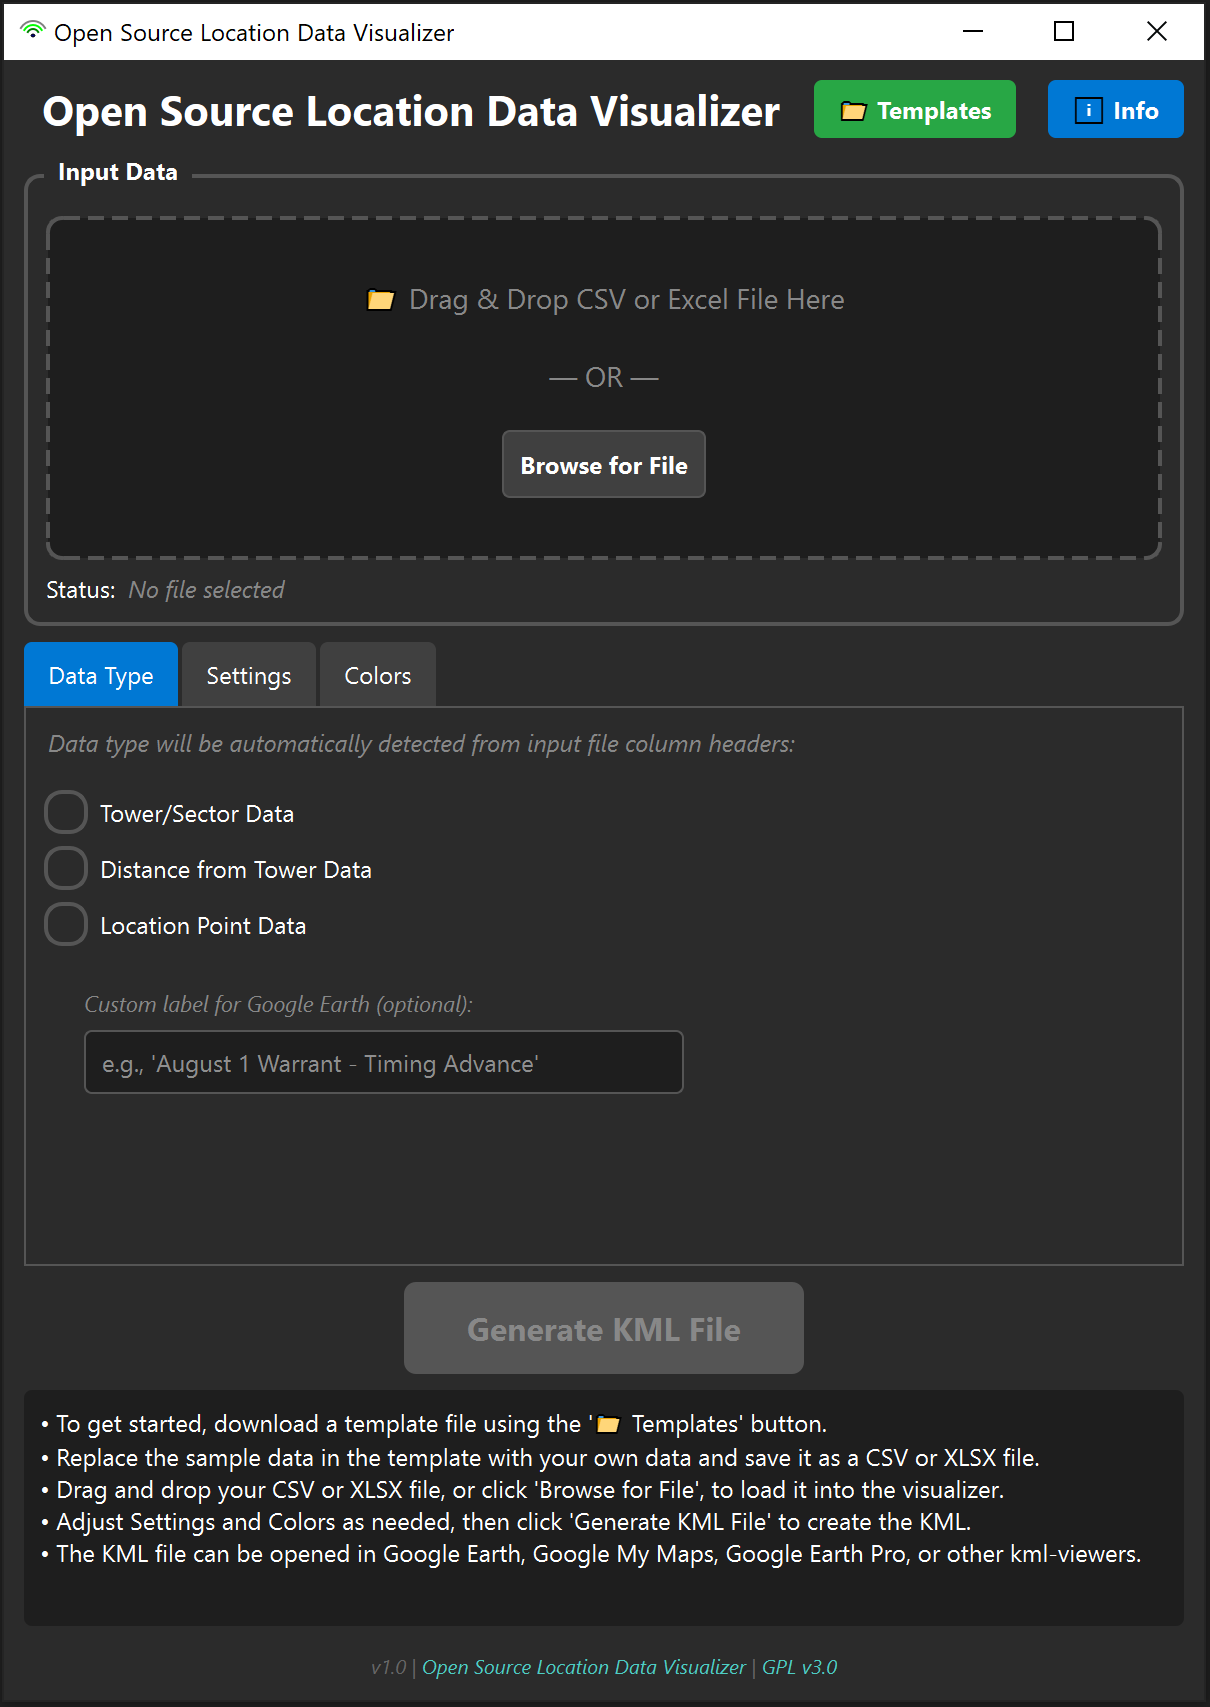
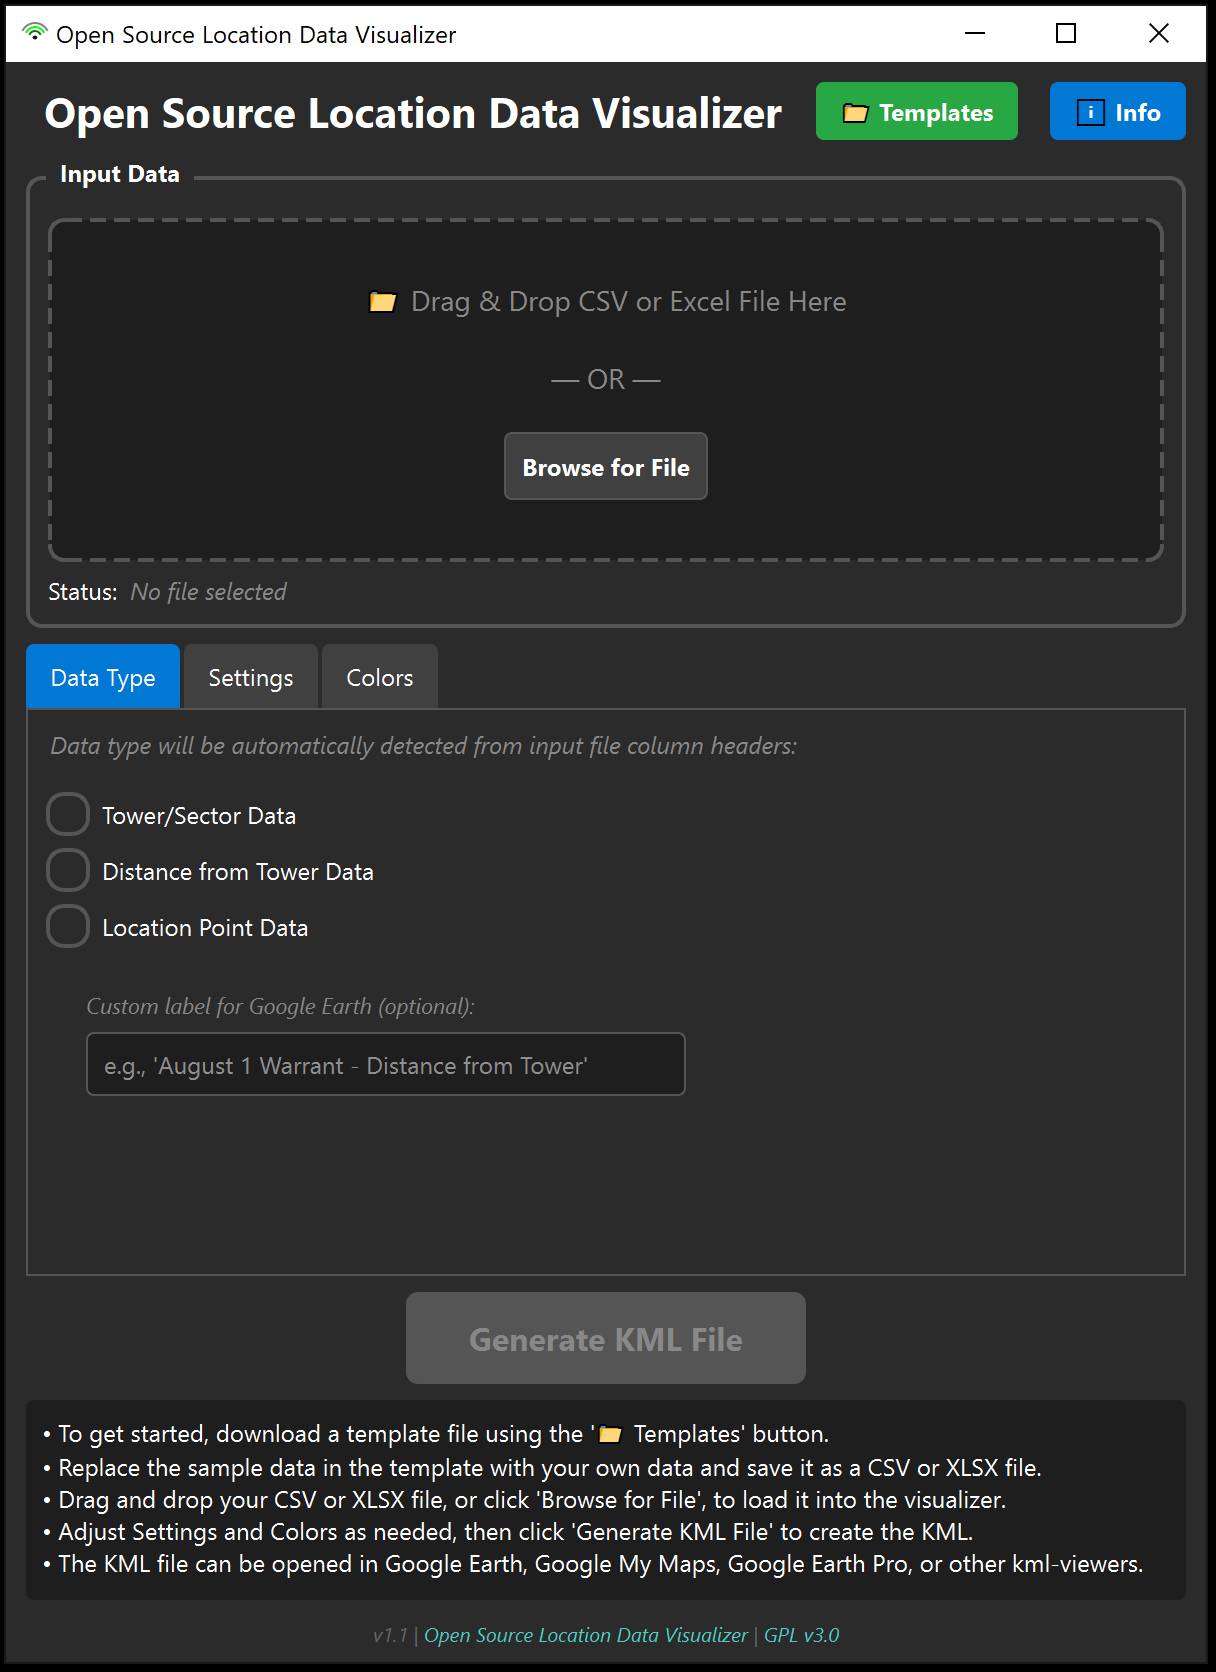
Refactor KML generation to remove gx namespace and update band thickness default to 0 meters

diff --git a/kml_generator.py b/kml_generator.py
@@ -96,12 +96,9 @@ class KMLGenerator(QThread):
         
         kml_header = textwrap.dedent(f'''\
             <?xml version="1.0" encoding="UTF-8"?>
-            <kml xmlns="http://www.opengis.net/kml/2.2" xmlns:gx="http://www.google.com/kml/ext/2.2">
+            <kml xmlns="http://www.opengis.net/kml/2.2">
             <Document>
                 <name>{doc_name}</name>
-                <gx:AnimatedUpdate>
-                    <gx:duration>0.0</gx:duration>
-                </gx:AnimatedUpdate>
         ''')
         
         kml_footer = textwrap.dedent('''\
@@ -152,12 +149,9 @@ class KMLGenerator(QThread):
         
         kml_header = textwrap.dedent(f'''\
             <?xml version="1.0" encoding="UTF-8"?>
-            <kml xmlns="http://www.opengis.net/kml/2.2" xmlns:gx="http://www.google.com/kml/ext/2.2">
+            <kml xmlns="http://www.opengis.net/kml/2.2">
             <Document>
                 <name>{doc_name}</name>
-                <gx:AnimatedUpdate>
-                    <gx:duration>0.0</gx:duration>
-                </gx:AnimatedUpdate>
         ''')
         
         kml_footer = textwrap.dedent('''\
@@ -229,12 +223,9 @@ class KMLGenerator(QThread):
         
         kml_header = textwrap.dedent(f'''\
             <?xml version="1.0" encoding="UTF-8"?>
-            <kml xmlns="http://www.opengis.net/kml/2.2" xmlns:gx="http://www.google.com/kml/ext/2.2">
+            <kml xmlns="http://www.opengis.net/kml/2.2">
             <Document>
                 <name>{doc_name}</name>
-                <gx:AnimatedUpdate>
-                    <gx:duration>0.0</gx:duration>
-                </gx:AnimatedUpdate>
         ''')
         
         kml_footer = textwrap.dedent('''\
@@ -571,11 +562,11 @@ class KMLGenerator(QThread):
         end_timestamp = self.calculate_end_timestamp(kml_timestamp, duration_minutes)
         
         if end_timestamp:
-            # Use gx:TimeSpan with both begin and end for duration-based visibility
-            return f"{indent}<gx:TimeSpan><begin>{kml_timestamp}</begin><end>{end_timestamp}</end></gx:TimeSpan>\n"
+            # Use TimeSpan with both begin and end for duration-based visibility
+            return f"{indent}<TimeSpan><begin>{kml_timestamp}</begin><end>{end_timestamp}</end></TimeSpan>\n"
         else:
             # Fallback to begin-only if end calculation fails
-            return f"{indent}<gx:TimeSpan><begin>{kml_timestamp}</begin></gx:TimeSpan>\n"
+            return f"{indent}<TimeSpan><begin>{kml_timestamp}</begin></TimeSpan>\n"
     
     def create_sector_placemark(self, lat, lon, azimuth, timestamp):
         """Create a sector wedge placemark with extended directional lines (SWGDE style)"""
@@ -798,7 +789,7 @@ class KMLGenerator(QThread):
         leg_length = self.settings.get('leg_length', 3.0)
         shaded_area_length = self.settings.get('shaded_area_length', 1.0)
         band_thickness_before = self.settings.get('band_thickness_before', 0.0)
-        band_thickness = self.settings.get('band_thickness', 78.0)
+        band_thickness = self.settings.get('band_thickness', 0.0)
         band_units = self.settings.get('band_thickness_units', 'Meters')
         band_thickness_before_miles = self.convert_ta_distance_to_miles(band_thickness_before, band_units)
         band_thickness_miles = self.convert_ta_distance_to_miles(band_thickness, band_units)
@@ -946,7 +937,7 @@ class KMLGenerator(QThread):
     def create_sector_distance_band(self, lat, lon, timestamp, distance_miles, start_angle, end_angle):
         """Create a band polygon constrained to a sector wedge (for Case 1: azimuth + distance)"""
         band_thickness_before = self.settings.get('band_thickness_before', 0.0)
-        band_thickness = self.settings.get('band_thickness', 78.0)
+        band_thickness = self.settings.get('band_thickness', 0.0)
         band_units = self.settings.get('band_thickness_units', 'Meters')
         band_color_raw = self.settings.get('band_color', 'ff0099ff')
         # Apply same 7d transparency as wedge shading (strip existing alpha, add 7d)
@@ -1046,8 +1037,10 @@ class KMLGenerator(QThread):
     
     def create_distance_band(self, lat, lon, timestamp, distance_miles):
         """Create a band polygon at the distance from tower (inner arc + outer arc + edges)"""
+        kml_timestamp, display_label = self.parse_timestamp_to_kml(timestamp)
+        
         band_thickness_before = self.settings.get('band_thickness_before', 0.0)
-        band_thickness = self.settings.get('band_thickness', 78.0)
+        band_thickness = self.settings.get('band_thickness', 0.0)
         band_units = self.settings.get('band_thickness_units', 'Meters')
         band_color_raw = self.settings.get('band_color', 'ff0099ff')
         # Apply same 7d transparency as wedge shading (strip existing alpha, add 7d)
@@ -1081,28 +1074,31 @@ class KMLGenerator(QThread):
         band_coords = inner_coords + list(reversed(outer_coords)) + [inner_coords[0]]
         coordinates_string = ' '.join(band_coords)
         
-        # Determine folder timestamp label
-        if isinstance(timestamp, tuple):
-            if timestamp[0]:  # If valid timestamp
-                timestamp_label = timestamp[1]
-            else:
-                timestamp_label = "Invalid Timestamp"
-        else:
-            timestamp_label = str(timestamp)
-        
         # Create descriptive label showing the band range
         if band_thickness_before_miles > 0:
             band_label = f"Band {inner_distance_miles:.2f}mi to {outer_distance_miles:.2f}mi"
         else:
             band_label = f"Band {distance_miles:.2f}mi ± {band_thickness_miles:.2f}mi"
         
-        placemark = textwrap.dedent(f'''
+        placemark = textwrap.dedent(f'''\
             <Folder>
                 <name>{band_label}</name>
-                <description>Distance band from tower - {timestamp_label}</description>
+                <description>Distance band from tower - {display_label}</description>
                 <visibility>0</visibility>
+        ''')
+        
+        # Add time element on the folder
+        placemark += self.create_time_element(kml_timestamp)
+        
+        # Band polygon placemark
+        placemark += textwrap.dedent(f'''\
                 <Placemark>
                     <name>Band Polygon</name>
+        ''')
+        
+        placemark += self.create_time_element(kml_timestamp, "            ")
+        
+        placemark += textwrap.dedent(f'''\
                     <Style>
                         <PolyStyle>
                             <color>{band_color}</color>
@@ -1120,8 +1116,17 @@ class KMLGenerator(QThread):
                         </outerBoundaryIs>
                     </Polygon>
                 </Placemark>
+        ''')
+        
+        # Reported distance line placemark
+        placemark += textwrap.dedent(f'''\
                 <Placemark>
                     <name>Reported Distance ({distance_miles:.2f} mi)</name>
+        ''')
+        
+        placemark += self.create_time_element(kml_timestamp, "            ")
+        
+        placemark += textwrap.dedent(f'''\
                     <Style>
                         <LineStyle>
                             <color>ff000000</color>
@@ -1134,8 +1139,17 @@ class KMLGenerator(QThread):
                         </coordinates>
                     </LineString>
                 </Placemark>
+        ''')
+        
+        # Center point placemark
+        placemark += textwrap.dedent(f'''\
                 <Placemark>
                     <name>Center</name>
+        ''')
+        
+        placemark += self.create_time_element(kml_timestamp, "            ")
+        
+        placemark += textwrap.dedent(f'''\
                     <Style>
                         <IconStyle>
                             <Icon>

diff --git a/main_window.py b/main_window.py
@@ -326,8 +326,8 @@ class MainWindow(QMainWindow):
         outside_band_label.setToolTip("Distance extending outward from the distance value (creates band from distance to distance + this value)")
         viz_layout.addWidget(outside_band_label, row, 0)
         self.band_thickness_spinbox = QDoubleSpinBox()
-        self.band_thickness_spinbox.setRange(0.1, 10000.0)
-        self.band_thickness_spinbox.setValue(78.0)  # Default 78 meters
+        self.band_thickness_spinbox.setRange(0.0, 10000.0)
+        self.band_thickness_spinbox.setValue(0.0)  # Default 0 meters
         self.band_thickness_spinbox.setSingleStep(1.0)
         viz_layout.addWidget(self.band_thickness_spinbox, row, 1)
         row += 1
